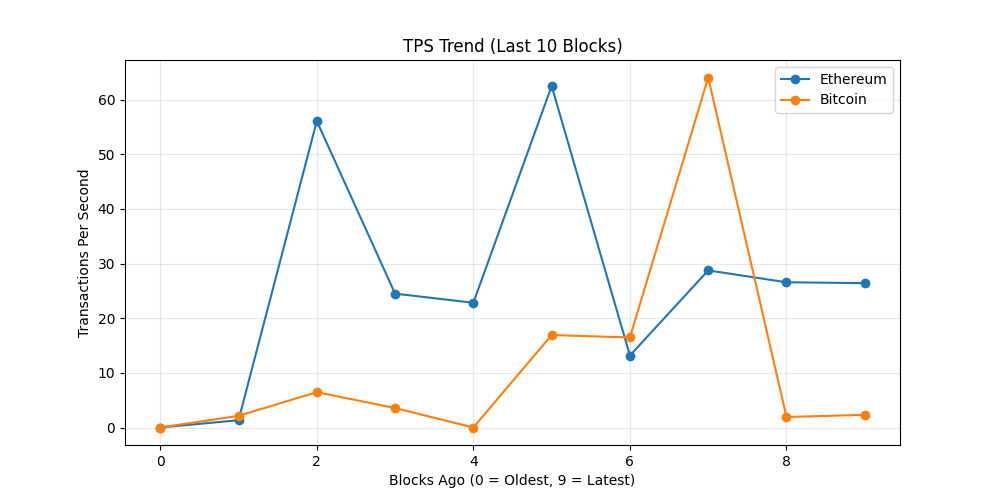
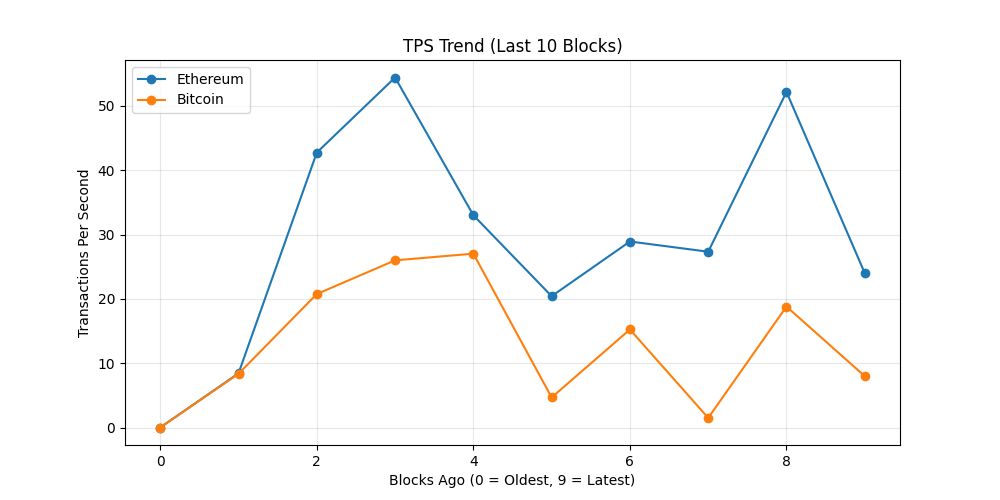
chore: update on-chain dashboard

diff --git a/README.md b/README.md
@@ -19,7 +19,7 @@ The README itself acts as the dashboard and is regenerated automatically on a 6 
 demonstrating a production-style, infrastructure-focused observability workflow rather
 than a traditional UI-driven approach.
 
-_Last updated: 2026-07-08 08:42 UTC_
+_Last updated: 2026-07-08 14:39 UTC_
 
 ## API Usage (GetBlock.io)
 - Calls used: **24**
@@ -27,8 +27,8 @@ _Last updated: 2026-07-08 08:42 UTC_
 ## Network Metrics
 | Chain | Block Height | TX Count | TPS (10 blk avg) | Block Util | Avg Fee |
 |------|-------------|----------|------------------|------------|---------|
-| Ethereum | 25486725 | 317 | 26.42 | 48.29% | 0.2 Gwei |
-| Bitcoin | 957143 | 4246 | 2.32 | 99.89% | N/A |
+| Ethereum | 25488502 | 288 | 24.0 | 57.97% | 0.3 Gwei |
+| Bitcoin | 957185 | 4104 | 7.98 | 99.8% | N/A |
 
 ## Visuals
 ### Transactions Trend
@@ -43,11 +43,11 @@ _Last updated: 2026-07-08 08:42 UTC_
 ## Whale Alerts (latest block)
 - Transaction hashes are truncated for readability.
 - Full hashes are available in `dashboards/metrics.json`
-- Bitcoin | 245.96 BTC | `5a9c055e39ef…`
-- Bitcoin | 674.2 BTC | `fd5c07eec6b9…`
-- Bitcoin | 20184.53 BTC | `2d0639acf574…`
-- Bitcoin | 191.76 BTC | `d476bbd0866d…`
-- Bitcoin | 364.75 BTC | `aaed1ee58468…`
+- Bitcoin | 2927.47 BTC | `03598c6ecfdc…`
+- Bitcoin | 132.66 BTC | `245b6980ee5c…`
+- Bitcoin | 210.0 BTC | `dd32b961e5b8…`
+- Bitcoin | 444.52 BTC | `66b0957e7563…`
+- Bitcoin | 160.0 BTC | `ce277218ca7b…`
 
 ## Run locally
 
